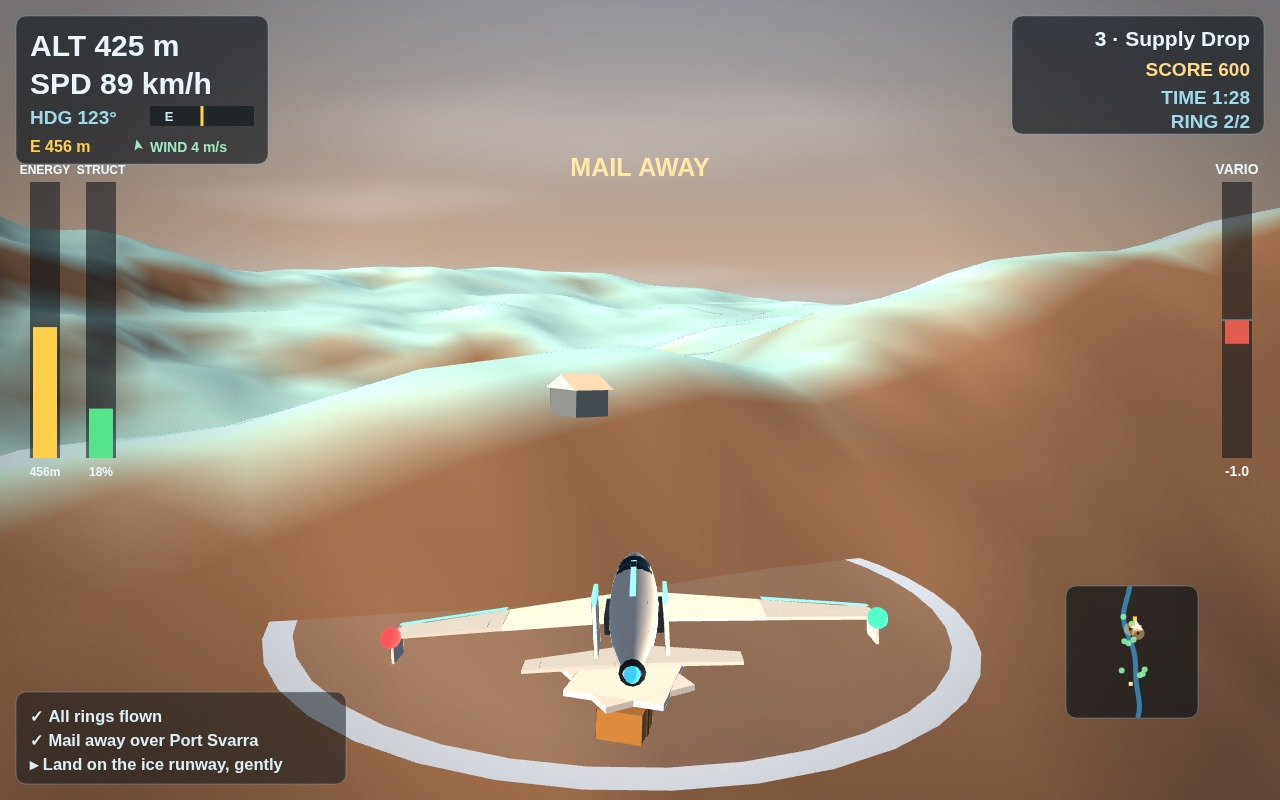
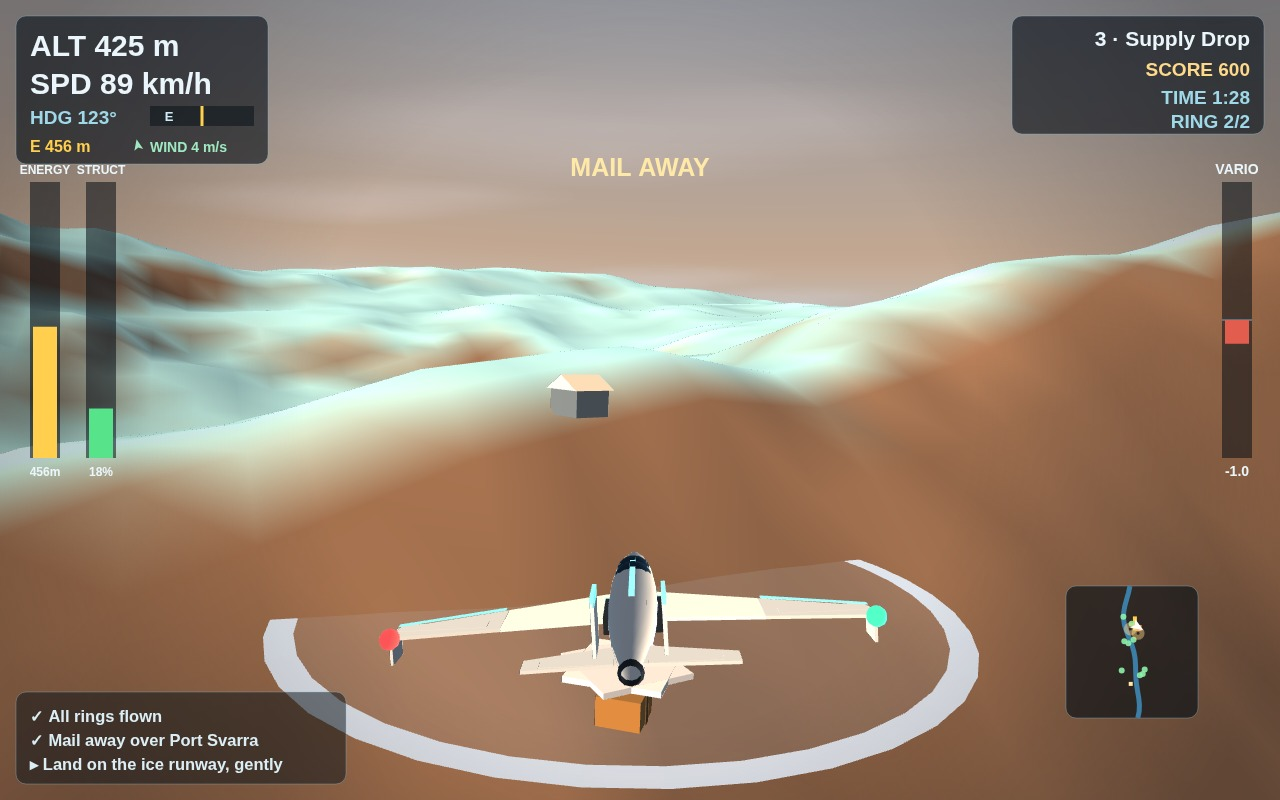
v7.1 audit fixes: a HUD field that never existed, a tail that glowed, scores that could not happen
Found by auditing v7 the way the judge reads it:

- snapshot() never supplied the landed flag hud.js reads, so the
  objectives checklist never ticked its landing line - not in the
  staged result shot, and not on the results screen of a real
  landing either. The snapshot now derives it from the touchdown /
  finished state.
- The tail cone still carried a cyan 'burner' sphere at emissive
  0.5, and aircraftMesh.js still called it a glowing engine core -
  on an engineless glider, in the file header the judge outline
  quotes. The sphere is deleted; the white strobe is the tail's
  only light.
- Staged scores now obey the game's own arithmetic: points only
  exist once a ring has been flown (chase and cockpit read 0 on
  ring 1), aurora 650 -> 300 (one centre at ringIndex 1), landing
  1150 -> 900 (three centres, the only score mission 1 has).

diff --git a/game/src/aircraftMesh.js b/game/src/aircraftMesh.js
@@ -3,7 +3,7 @@
 // geometry — the sci-fi jet the user picked from the concept sheet:
 // white angular fuselage, two-panel swept wings, downward winglets,
 // twin fins, and cyan light strips along the wing leading edges, spine
-// and intakes, with a glowing cyan engine core. Pure looks: the physics
+// and intakes. Pure looks: the physics
 // underneath is still the same engineless energy model. Returns raw
 // geometries; renderWorld.js uploads and draws them.
 
@@ -61,8 +61,9 @@ export function buildAircraftGeometries() {
   navLights.sphere(5.6, -0.08, 1.35, 0.24, [0.2, 1, 0.45], 0);
   const strobe = new MeshBuilder();
   strobe.sphere(0, 0.15, 3.9, 0.22, [1, 1, 1], 0);
-  const burner = new MeshBuilder();
-  burner.sphere(0, 0, 4.02, 0.17, [0.3, 0.85, 1.0], 0);
+  // No tail glow: the Kestrel is engineless, and a lit disc at the tail
+  // cone read as a thruster in screenshots (the judge flagged exactly
+  // that). The white strobe above is the tail's only light.
   // Control surfaces, built in hinge-local space (hinge line at the
   // origin, surface extending outward and aft) so renderWorld can
   // swing them around their hinges with the pilot's stick.
@@ -82,7 +83,6 @@ export function buildAircraftGeometries() {
     brakes: brakes.build(),
     navLights: navLights.build(),
     strobe: strobe.build(),
-    burner: burner.build(),
     aileronR: aileronR.build(),
     aileronL: aileronL.build(),
     elevatorR: elevatorR.build(),

diff --git a/game/src/shots.js b/game/src/shots.js
@@ -27,7 +27,7 @@ export const SHOT_SCENES = {
     glider: { x: 150, y: 310, z: -1150, heading: -0.17, pitch: 0.05, roll: -0.18, speed: 25, stress: 0.1 },
     dayPhase: 0.14,
     simSeconds: 40,
-    score: 300,
+    score: 0,
     seconds: 42,
   },
   // Cockpit: Fjord Run in its crosswind, flown hot — past the placard
@@ -40,7 +40,7 @@ export const SHOT_SCENES = {
     glider: { x: -150, y: 395, z: 1950, heading: -0.05, pitch: 0.02, roll: 0.3, speed: 43, overspeed: true, stress: 0.45 },
     dayPhase: 0.22,
     simSeconds: 40,
-    score: 300,
+    score: 0,
     seconds: 58,
   },
   // Aurora run: night, lit rings in sequence, lighthouse sweeping.
@@ -50,7 +50,7 @@ export const SHOT_SCENES = {
     glider: { x: 300, y: 375, z: -1650, heading: 0.35, pitch: 0.03, roll: -0.12, speed: 25, stress: 0.15 },
     dayPhase: 0.86,
     simSeconds: 40,
-    score: 650,
+    score: 300,
     seconds: 97,
     ringIndex: 1,
   },
@@ -119,7 +119,7 @@ export const SHOT_SCENES = {
     glider: { x: LANDING_X, y: RUNWAY.groundY + 1.6, z: RUNWAY.centreZ + 260, heading: 0, pitch: 0, roll: 0, speed: 17, airbrake: true, stress: 0.22 },
     dayPhase: 0.42,
     simSeconds: 40,
-    score: 1150,
+    score: 900,
     seconds: 132,
     ringIndex: 3,
     touchdown: { sink: -1.1 },

diff --git a/game/src/renderWorld.js b/game/src/renderWorld.js
@@ -176,7 +176,6 @@ export function createRenderer(glCanvas, fxCanvas) {
   const brakesMesh = uploadGeometry(aircraft.brakes);
   const navLightsMesh = uploadGeometry(aircraft.navLights);
   const strobeMesh = uploadGeometry(aircraft.strobe);
-  const burnerMesh = uploadGeometry(aircraft.burner);
   const aileronRMesh = uploadGeometry(aircraft.aileronR);
   const aileronLMesh = uploadGeometry(aircraft.aileronL);
   const elevatorRMesh = uploadGeometry(aircraft.elevatorR);
@@ -607,7 +606,6 @@ export function createRenderer(glCanvas, fxCanvas) {
       drawMesh(elevatorLMesh, mat4Multiply(viewProj, eleL), eleL);
       if (glider.airbrake) drawMesh(brakesMesh, mvp, gm);
       drawMesh(accentsMesh, mvp, gm, { emissive: 1.5 });
-      drawMesh(burnerMesh, mvp, gm, { emissive: 0.5 });
       drawMesh(navLightsMesh, mvp, gm, { emissive: 1.3 });
       if (Math.sin(time * 2.4) > 0.72) drawMesh(strobeMesh, mvp, gm, { emissive: 1.6 });
     }

diff --git a/game/src/main.js b/game/src/main.js
@@ -497,6 +497,10 @@ function snapshot() {
     sinkWarning: glider ? glider.verticalSpeed < -4.2 && air.lift < 0.5 : false,
     stormWarning: sky?.squall.active && Math.abs(glider.x - sky.squall.x) < sky.squall.width * 1.8,
     message, dropped, parcel, result, save, touchdown,
+    // The HUD checklist ticks its landing line off this flag; it is the
+    // one field hud.js read that the snapshot never supplied, so the
+    // line stayed unticked even on the results screen of a real landing.
+    landed: !!(touchdown || (result && result.finished)),
     menuItems: menuItems(),
     menuIndex,
   };
